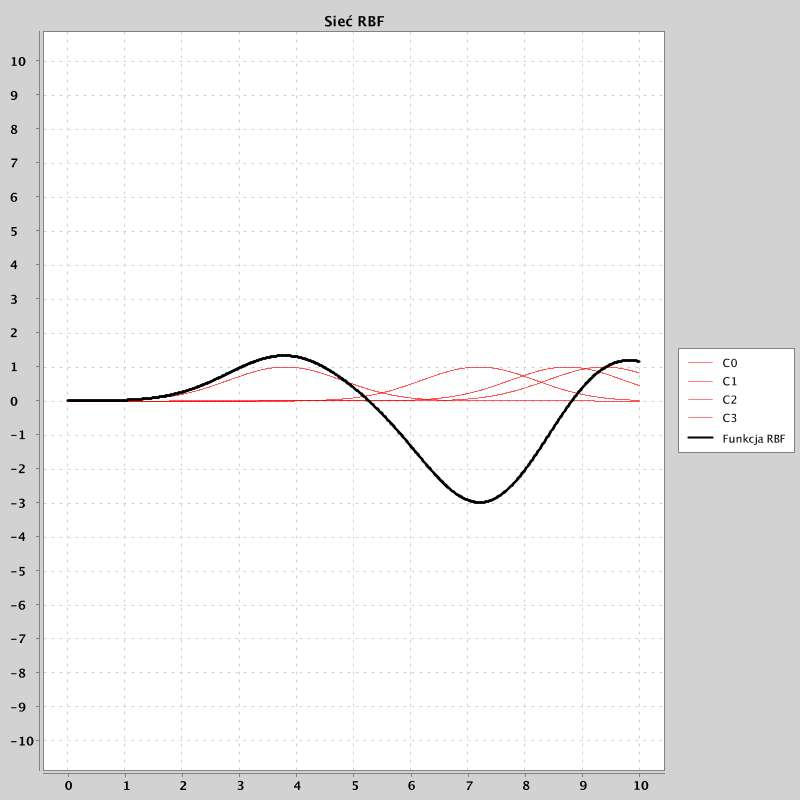
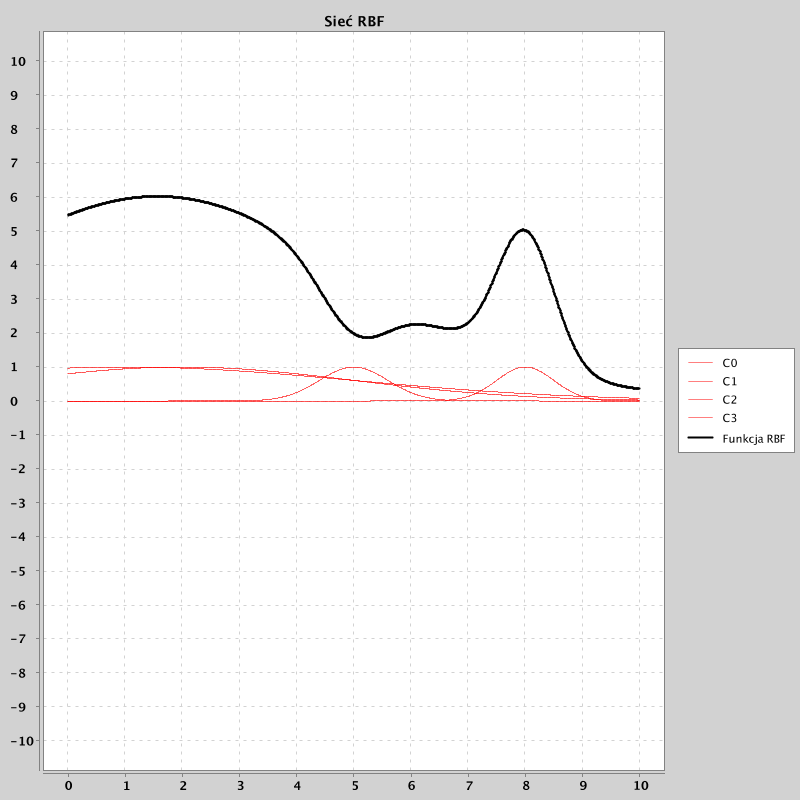
upgrade logic and fix centers

diff --git a/src/main/kotlin/network/Network.kt b/src/main/kotlin/network/Network.kt
@@ -2,13 +2,20 @@ package network
 
 import math.Point
 
-class Network(dimension: Int, numRadialNeurons: Int, numLinearNeurons: Int) {
+class Network(
+    dimension: Int,
+    sigmas : List<Double>,
+    centers: List<Point>,
+    numLinearNeurons: Int
+) {
+    private val numRadialNeurons = sigmas.size
+
     val radialLayer = ArrayList<RadialNeuron>(numRadialNeurons)
-    val outputLayer = ArrayList<LinearNeuron>(numLinearNeurons)
+    private val outputLayer = ArrayList<LinearNeuron>(numLinearNeurons)
 
     init {
-        for (i in 1..numRadialNeurons) {
-            radialLayer.add(RadialNeuron(dimension))
+        for (i in 0 until numRadialNeurons) {
+            radialLayer.add(RadialNeuron(centers[i], sigmas[i]))
         }
 
         for (i in 1..numLinearNeurons) {

diff --git a/src/main/kotlin/network/RadialNeuron.kt b/src/main/kotlin/network/RadialNeuron.kt
@@ -2,18 +2,8 @@ package network
 
 import math.Point
 import kotlin.math.pow
-import kotlin.random.Random
 
-class RadialNeuron(dimension : Int, sigma : Double = 1.0) {
-    private var sigma : Double = sigma
-    private val center : Point = Point(dimension)
-
-    init {
-        for (index in center.coordinates.indices) {
-            center.coordinates[index] = Random.nextDouble(0.0, 10.0)
-        }
-    }
-
+class RadialNeuron(private val center : Point, private val sigma : Double) {
     fun output(x : Point) = R(center.distance(x))
 
     fun R(d: Double) = Math.exp(

diff --git a/src/main/kotlin/ui/Main.kt b/src/main/kotlin/ui/Main.kt
@@ -6,7 +6,17 @@ import network.Network
 import utils.Charts
 
 fun main() {
-    val network = Network(1, 4, 1)
+    val network = Network(
+        1,
+        arrayListOf(4.0, 3.0, 0.6, 0.5),
+        arrayListOf(
+            Point(1.0),
+            Point(2.0),
+            Point(5.0),
+            Point(8.0)
+        ),
+        1
+    )
 
     val arguments = Utils.arange(0.0, 10.0, 0.01)
     var values = arguments.map { network.output(Point(it)).first() }.toList()

diff --git a/src/main/kotlin/network/LinearNeuron.kt b/src/main/kotlin/network/LinearNeuron.kt
@@ -5,7 +5,7 @@ import kotlin.random.Random
 
 class LinearNeuron(dimension: Int, numPreviousNeurons: Int) {
     private val weights = DoubleArray(numPreviousNeurons + 1)
-    private val neurons = arrayListOf(RadialNeuron(dimension, 0.0))
+    private val neurons = arrayListOf(RadialNeuron(Point(dimension),0.0))
 
     init {
         for (index in weights.indices) {
